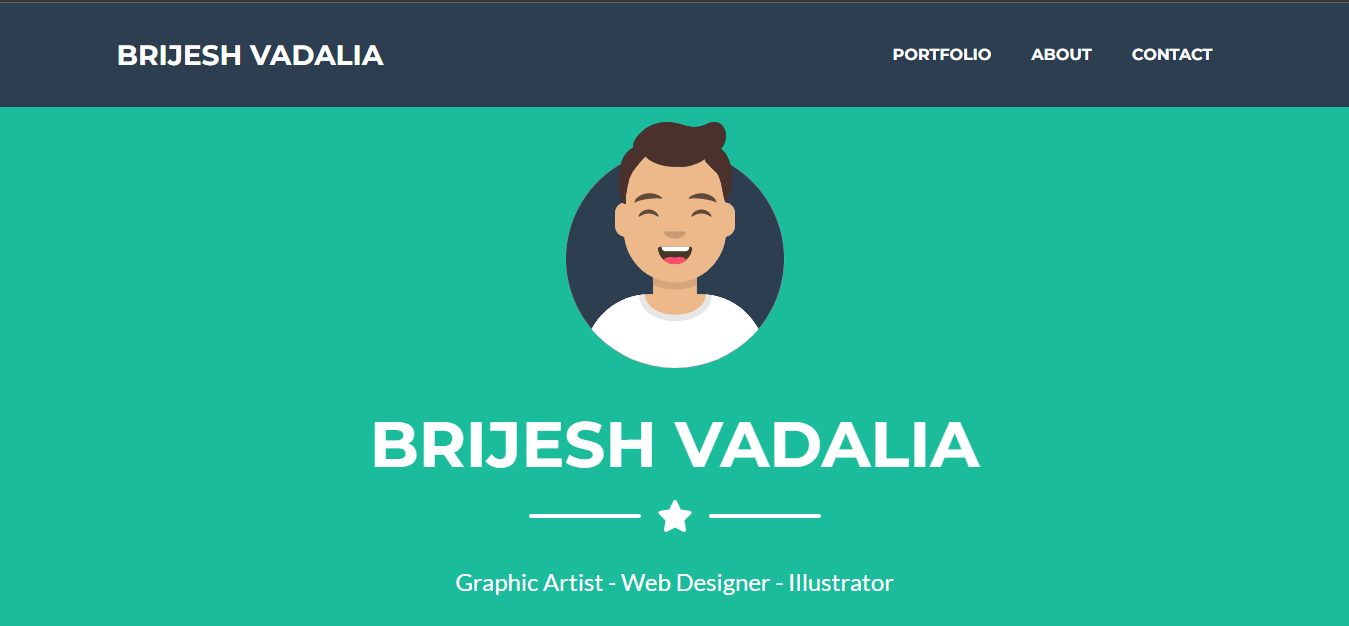
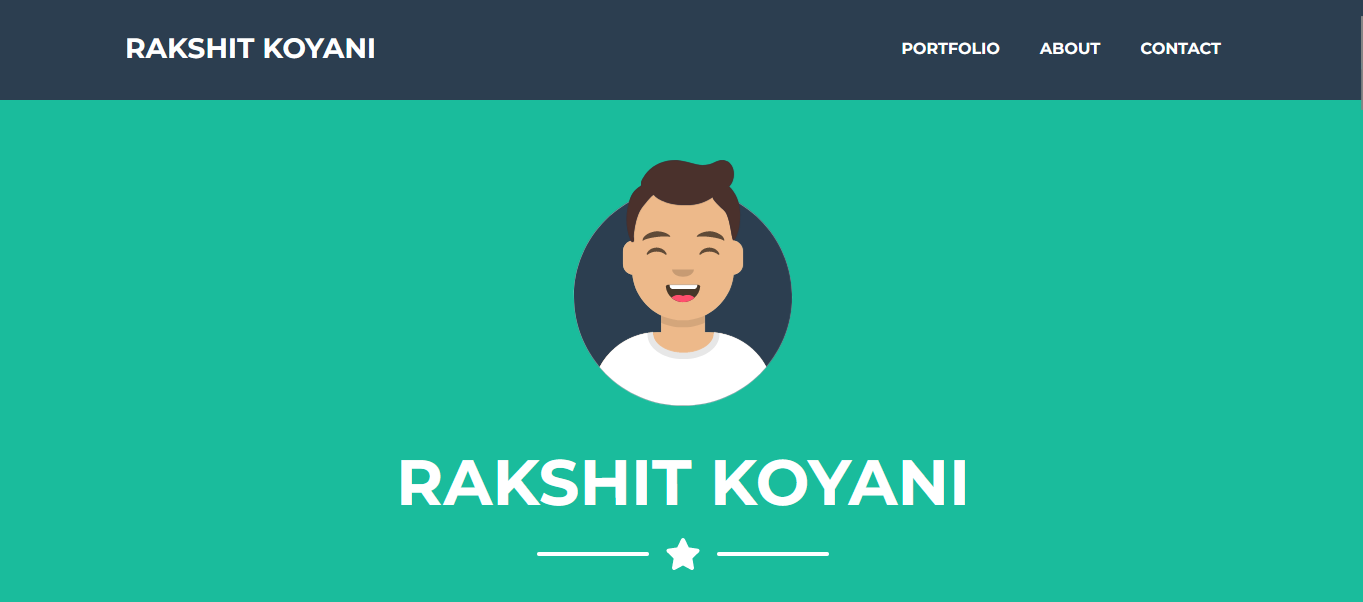
readme modified

diff --git a/README.md b/README.md
@@ -1,4 +1,3 @@
-
 <!-- Social Links -->
 
 [![LinkedIn][linkedin-shield]][linkedin-url]
@@ -10,10 +9,11 @@
 ![BADGE](https://img.shields.io/badge/INEURON-FULL--STACK--JAVASCRIPT--WEBDEVELOPMENT-lightgrey)
 ![BADGE](https://img.shields.io/badge/HTML-CSS-lightgrey)
 ![BADGE](https://img.shields.io/badge/REACTJS-lightgrey)
->![BADGE](https://img.shields.io/badge/MADE%20WITH%20FUN%20BY-BRIJESH%20VADALIA-blue)
 
+> ![BADGE](https://img.shields.io/badge/MADE%20WITH%20FUN%20BY-RAKSHIT%20KOYANI-blue)
 
 > ![Gif](https://miro.medium.com/max/600/1*KUjro0G-igf6P3lvlcDrTQ.png)
+>
 > - `React JS🤓 is today's most popular JavaScript Library for building User Interfaces, which has created by Facebook.`
 > - ` It is an efficient, flexible, and open-source JavaScript library, that was developed and is maintained by Facebook.🤠 It is capable of rendering front-ends of web apps that are simple, speedy, and scalable.`
 
@@ -21,7 +21,7 @@
 
 # **Gained expertise through this project :**
 
-- Learnt indepth of `REACTJS` 
+- Learnt indepth of `REACTJS`
 
 - Learned the importance of React Virtual DOM.
 
@@ -31,64 +31,39 @@
 
 - Also it is one way data binding [This feature helps more in controlling the app as it uses a unidirectional data flow or one-day data binding.]
 
-- Learned about Functional Components 
+- Learned about Functional Components
 
 - `Reminder` : This is a Bootstrap Template just to understand components i have used this template.And this is a Responsive design.
 
-># Designed With 😇
->## TECHNOLOGIES USED 
->![badge](https://img.shields.io/badge/HTML5-HTML5-orange)
-![BADGE](https://img.shields.io/badge/CSS3-CSS3-blue)
-![BADGE](https://img.shields.io/badge/JAVASCRIPT-JAVASCRIPT-yellow)
-![BADGE](https://img.shields.io/badge/REACTJS-REACTJS-blue)
->## Making Use of Tools
->![BADGE](https://img.shields.io/badge/GOOGLE-CHROME-blue)
->![BADGE](https://img.shields.io/badge/GIT-HUB-lightgrey)
->![BADGE](https://img.shields.io/badge/VS-CODE-blue)
->![BADGE](https://img.shields.io/badge/GIT-GIT-orange)
->![BADGE](https://img.shields.io/badge/VERCEL-VERCEL-blue)
-
+> # Designed With 😇
+>
+> ## TECHNOLOGIES USED
+>
+> ![badge](https://img.shields.io/badge/HTML5-HTML5-orange) > ![BADGE](https://img.shields.io/badge/CSS3-CSS3-blue) > ![BADGE](https://img.shields.io/badge/JAVASCRIPT-JAVASCRIPT-yellow) > ![BADGE](https://img.shields.io/badge/REACTJS-REACTJS-blue)
+>
+> ## Making Use of Tools
+>
+> ![BADGE](https://img.shields.io/badge/GOOGLE-CHROME-blue) >![BADGE](https://img.shields.io/badge/GIT-HUB-lightgrey) >![BADGE](https://img.shields.io/badge/VS-CODE-blue) >![BADGE](https://img.shields.io/badge/GIT-GIT-orange) >![BADGE](https://img.shields.io/badge/VERCEL-VERCEL-blue)
 
 # HERE IS THE PREVIEW HOW THIS PROJECT LOOKS😍
-># [LIVE [HOSTED] PROJECT LINK](https://basic-react-template-portfolio-bootstrap.vercel.app/ "Basic React Template Project")
 
->![Screenshot](./screenshot/screenshot-1.png)
->![Screenshot](./screenshot/screenshot-2.png)
->![Screenshot](./screenshot/screenshot-3.png)
+> # [LIVE [HOSTED] PROJECT LINK](https://basic-react-template-portfolio.vercel.app/) "Basic React Template Project")
 
-
-
-
-
->## For any query you can reach out at brijeshvadaliya1@gmail.com I am happy to help 😎
+> ![Screenshot](./screenshot/screenshot-1.png) >![Screenshot](./screenshot/screenshot-2.png) >![Screenshot](./screenshot/screenshot-3.png)
 
 # HAPPY LEARNING 🤩
->![image](https://raw.githubusercontent.com/ikeyurp/ikeyurp/master/src/Comp-Man.gif)
->## Life is 10% what happens to you and 90% how you `React` to it.
-
-
-
-
-
-
-
 
 <!-- Linkedin -->
 
 [linkedin-shield]: https://img.shields.io/badge/-LinkedIn-black.svg?style=for-the-badge&logo=linkedin&colorB=0B5FBB
-[linkedin-url]: https://www.linkedin.com/in/brijesh-vadaliya-16b3a2202/
+[linkedin-url]: https://www.linkedin.com/in/rakshit-koyani-507040132/
 
 <!-- Instagram -->
 
 [instagram-shield]: https://img.shields.io/badge/Instagram-%23E4405F.svg?style=for-the-badge&logo=Instagram&logoColor=white
-[instagram-url]: https://www.instagram.com/brijesh_vadaliya_8128/
-
+[instagram-url]: https://www.instagram.com/rakshitkoyaniofficial/
 
 <!-- Hashnode -->
 
 [hashnode-shield]: https://img.shields.io/badge/Hashnode-2962FF?style=for-the-badge&logo=hashnode&logoColor=white
-[hashnode-url]: https://brijeshvadaliya8128.hashnode.dev/
-
-
-
-
+[hashnode-url]: https://rakshitkoyani.hashnode.dev/
